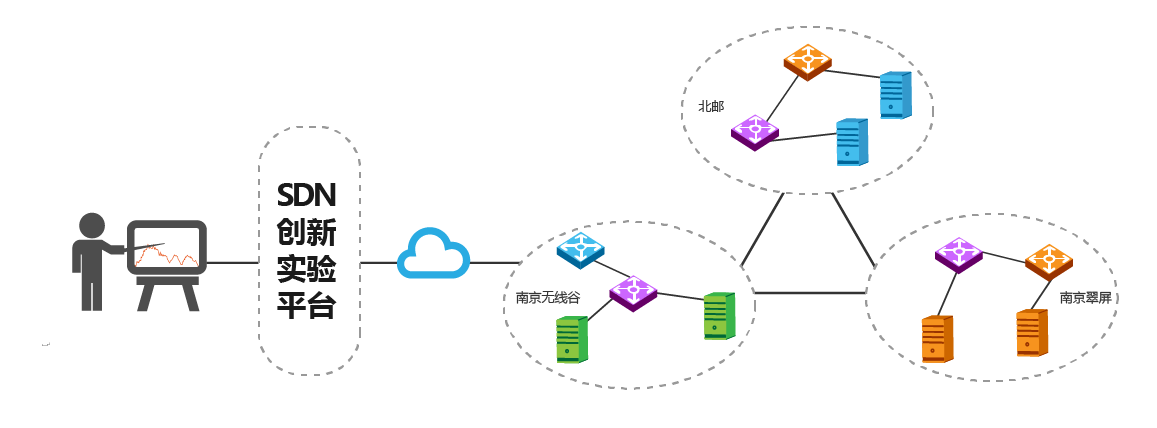
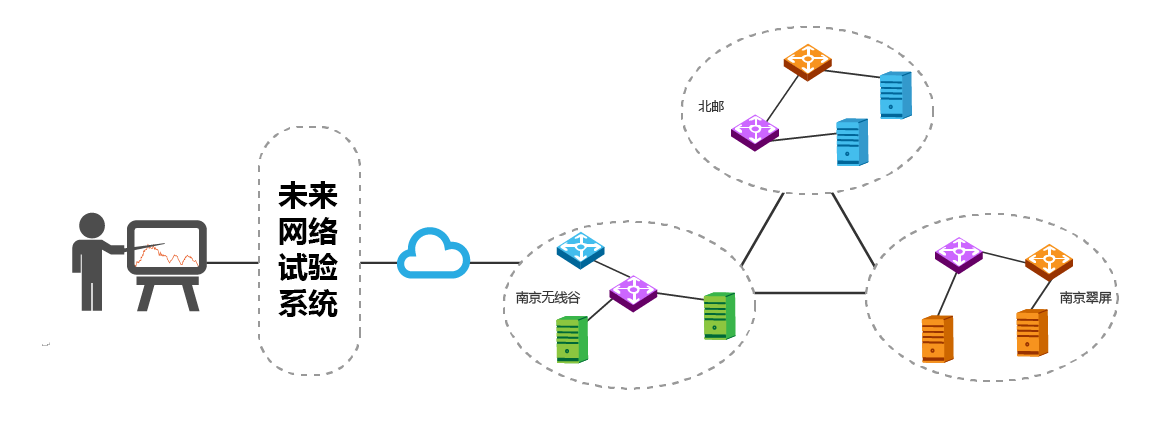
html renew

Changed region(s): [[0.2178, 0.4252, 0.3111, 0.7593]]

diff --git a/ccf/templates/help.html b/ccf/templates/help.html
@@ -18,14 +18,14 @@
        <div class="col-md-9">
        	 	<div class="help_main">
        	 	  <section id="help_sdn">
-       	 		<h4><i class="icon-laptop"></i>什么是SDN创新实验平台？</h4>
-       	 		<p>SDN创新实验平台为高校等科研机构用于验证网络实验提供服务，用户可以通过平台获取实验所需要的网络、计算、存储资源进行SDN、云计算、移动网络、信息中心网络等未来网络相关的不同方向研究实验。</p>
+       	 		<h4><i class="icon-laptop"></i>什么是未来网络试验系统？</h4>
+       	 		<p>未来网络试验系统为高校等科研机构用于验证网络实验提供服务，用户可以通过平台获取实验所需要的网络、计算、存储资源进行SDN、云计算、移动网络、信息中心网络等未来网络相关的不同方向研究实验。</p>
                 <p> 平台提供用户灵活的环境配置，如自定义SDN控制器、网关、DHCP服务器，以及网络实验所需要的拓扑的自由选择，帮助用户降低实验过程中环境搭建以及运维的成本，提高用户进行科研实验的效率。</p>                        	 	              
                 <img src="{% static "img/help_sdn.png" %}" />
               </section>
               <section id="help_project">
                 <h4><i class="icon-folder-close-alt"></i>什么是项目？</h4>
-                <p>项目是SDN创新实验平台中用于组织开展研究试验的载体，它具有如下特点：</p>
+                <p>项目是未来网络试验系统中用于组织开展研究试验的载体，它具有如下特点：</p>
                 <ul>
                     <li>项目由项目leader创建，项目leader一般为教授或高级研究人员、资深爱好者等，项目leader可以创建多个项目；</li>
                     <li>项目由多个实验以及研究人员组成，参与项目的研究人员可以是普通研究人员、学生、一般爱好者等，同时一个研究人员可以参与多个项目；</li>                    
@@ -43,11 +43,11 @@
                 <img src="{% static "img/help_slice.png" %}" />
               </section>
               <section id="help_process">
-                <h4><i class="icon-random"></i>使用SDN创新平台进行实验的流程？</h4>
+                <h4><i class="icon-random"></i>使用未来网络试验系统进行实验的流程？</h4>
                 <ol>
                     <li>创建实验
                         <ul>
-                            <li>申请账号 → 等待审批 → 账号激活 → 登录SDN创新实验平台</li>
+                            <li>申请账号 → 等待审批 → 登录SDN创新实验平台</li>
                             <li>创建项目 → 选择资源、邀请成员或审批申请成员/申请加入项目</li>  
                             <li>创建虚网 → 选择虚拟机数量 → 选择虚网拓扑 → 服务配置（选择是否配置DHCP服务、控制器类型等） → 虚拟机创建（选择虚拟机类型和镜像以及宿主机）</li>                                     
                         </ul> 
@@ -55,7 +55,7 @@
                     <li>运行实验
                         <ul>
                             <li>启动虚网 → 启动虚拟机</li>
-                            <li>登陆虚拟机 → 部署实验</li>                                           
+                            <li>登陆虚拟机 → 部署实验及应用</li>                                           
                         </ul> 
                     </li>
                     <li>结束实验
@@ -66,7 +66,7 @@
                         </ul> 
                     </li>
                 </ol>                               
-                <img src="{% static "img/help_process.jpg" %}" />
+                <img src="{% static "img/help_process.png" %}" />
               </section>
        	 	</div>
        </div>	
@@ -74,10 +74,10 @@
        <div class="col-md-3 help_chose">
        	 <div class="help_main_wrap">
           <ul class="nav nav-list bs-docs-sidenav">
-	          <li><a href="#help_sdn"><i class="glyphicon glyphicon-chevron-left"></i> 什么是SDN创新实验平台？</a></li>
+	          <li><a href="#help_sdn"><i class="glyphicon glyphicon-chevron-left"></i> 什么是未来网络试验系统？</a></li>
 	          <li><a href="#help_project"><i class="glyphicon glyphicon-chevron-left"></i> 什么是项目？</a></li>
 	          <li><a href="#help_slice"><i class="glyphicon glyphicon-chevron-left"></i> 什么是虚网？</a></li>
-	          <li><a href="#help_process"><i class="glyphicon glyphicon-chevron-left"></i> 使用SDN创新平台进行实验的流程？</a></li>
+	          <li><a href="#help_process"><i class="glyphicon glyphicon-chevron-left"></i> 使用未来网络试验系统进行实验的流程？</a></li>
 	       </ul>	
 	     </div>
        </div>

diff --git a/ccf/static/less/own-flatui.less b/ccf/static/less/own-flatui.less
@@ -1,5 +1,4 @@
 .login_bg {
- 
 	background:#fff;
 	min-width:980px;
 	padding-top:0;
@@ -15,17 +14,16 @@
 	    }
 	}
 	.login_logo {
-		margin-bottom:20px;
 		width:700px;
 		img {
-		    width:auto;
+		    width:80%;
 		}
 	}
 	.login_title {
-		background:#3da2f7 url(../img/banner.png) center top;
+		background:#3da2f7 url(../img/banner.jpg) center top;
 		height:400px;
 		width:100%;
-		line-height:400px;
+		line-height:340px;
 		text-align:center;
 		font-size:70px;
 		font-family:"黑体";
@@ -45,8 +43,7 @@
 			height:40px;	
 		}	
 		.btn {
-		    height:40px;
-		    line-height:40px;
+		    line-height:38px;
 		    padding:0;
 		}
 	}
@@ -62,6 +59,11 @@
 	}
 	.login_all {       
         width: 980px;   
+    }
+    #footer {
+        img {
+            display:inline;
+        }        
     }
 }
 
@@ -99,3 +101,4 @@ textarea {
 a.forgetpwd:hover {
     color: #fff;    
 }
+

diff --git a/ccf/static/css/own-flatui.css b/ccf/static/css/own-flatui.css
@@ -15,17 +15,16 @@
   margin-left: -490px;
 }
 .login_bg .login_logo {
-  margin-bottom: 20px;
   width: 700px;
 }
 .login_bg .login_logo img {
-  width: auto;
+  width: 80%;
 }
 .login_bg .login_title {
-  background: #3da2f7 url(../img/banner.png) center top;
+  background: #3da2f7 url(../img/banner.jpg) center top;
   height: 400px;
   width: 100%;
-  line-height: 400px;
+  line-height: 340px;
   text-align: center;
   font-size: 70px;
   font-family: "黑体";
@@ -46,8 +45,7 @@
   height: 40px;
 }
 .login_bg .login-form .btn {
-  height: 40px;
-  line-height: 40px;
+  line-height: 38px;
   padding: 0;
 }
 .login_bg .login-form:before {
@@ -62,6 +60,9 @@
 }
 .login_bg .login_all {
   width: 980px;
+}
+.login_bg #footer img {
+  display: inline;
 }
 .pop_form input {
   padding: 5px;

diff --git a/ccf/static/less/style_defined.less b/ccf/static/less/style_defined.less
@@ -188,30 +188,19 @@ body a:active, body a:focus {
 }
 #footer {
     height:75px;
+    line-height:75px;
     border-top:1px solid #e8e8e8;
-    background:#f1f1f1;
+    background:#666;
     text-align:center;
     color:#666;
     font-size:12px;
     margin-top:20px;
-    padding-top:16px;
-    span {
-        display:inline-block;
-    }
-    span.logo1 {           
-        height:24px;
-        line-height:24px;
-        padding-left:28px;
-        background:url(../img/logo-01.png) no-repeat;
-        padding-right:20px;
-    }
-    span.logo2 {
-        height:24px;
-        line-height:24px;
-        padding-left:28px;
-        background:url(../img/logo-02.png) no-repeat;
+    img {
+        display:none;
+        width:60%;
     }
 }
+
 .main {
     padding-top:20px;
 }

diff --git a/ccf/templates/account/login.html b/ccf/templates/account/login.html
@@ -22,7 +22,7 @@
 {% block blank_block %}{% endblock %}
 
     	<div class="login_logo">
-    		<img src="{% static "img/c-lab.png" %}" />
+    		<img src="{% static "img/logo-cetc.png" %}" />
     	</div>
 	<div class="login_all">
     	<div class="login_title">
@@ -61,7 +61,7 @@
     			    </div>
     			</div>    			
     			<div class="col-md-2">
-    				<button class="btn btn-lg btn-block btn-warning" type="submit" style="*height:45px;">登 录</button>
+    				<button class="btn btn-lg btn-block btn-warning" type="submit">登 录</button>
     			</div>
     			<div class="col-md-2">
     				<a data-toggle="modal" href="#registerModal" class="btn btn-lg btn_info btn-block" id="register" style="*width:106px;">注册</a>

diff --git a/ccf/static/css/style_defined.css b/ccf/static/css/style_defined.css
@@ -5960,29 +5960,17 @@ body a:focus {
 }
 #footer {
   height: 75px;
+  line-height: 75px;
   border-top: 1px solid #e8e8e8;
-  background: #f1f1f1;
+  background: #666;
   text-align: center;
   color: #666;
   font-size: 12px;
   margin-top: 20px;
-  padding-top: 16px;
 }
-#footer span {
-  display: inline-block;
-}
-#footer span.logo1 {
-  height: 24px;
-  line-height: 24px;
-  padding-left: 28px;
-  background: url(../img/logo-01.png) no-repeat;
-  padding-right: 20px;
-}
-#footer span.logo2 {
-  height: 24px;
-  line-height: 24px;
-  padding-left: 28px;
-  background: url(../img/logo-02.png) no-repeat;
+#footer img {
+  display: none;
+  width: 60%;
 }
 .main {
   padding-top: 20px;

diff --git a/ccf/templates/_footer.html b/ccf/templates/_footer.html
@@ -1,10 +1,5 @@
 {% load i18n %}
 {% load staticfiles %}
 
-		
-		  <span class="logo1">北京邮电大学</span>
-		  <span class="logo2">江苏省未来网络创新研究院</span>    
-		
-		
-		<br />
-        Copyright©2014 fnii.cn&nbsp;&nbsp;版权所有&nbsp;&nbsp;苏ICP备12068333号 v9.0.4
+<img src="{% static "img/footer-word.png" %}" />		
+
